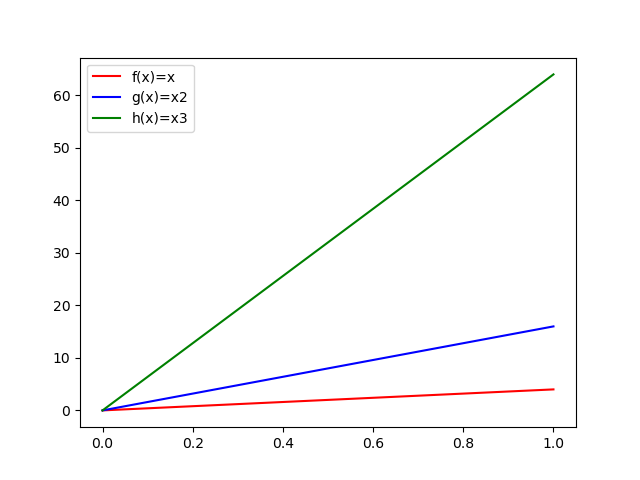
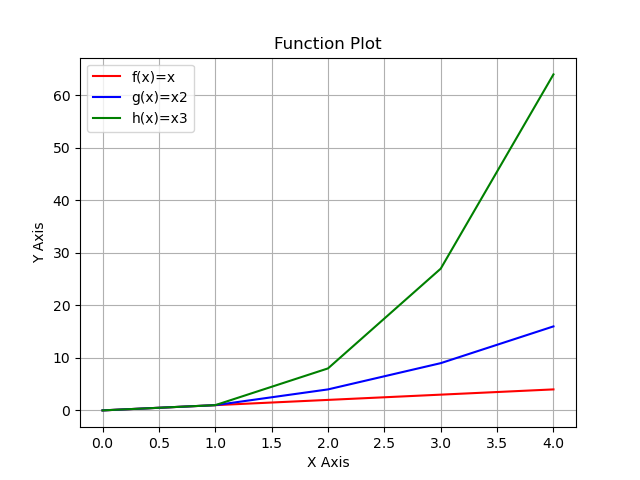
Weekly task 8 code cleanup and readme file updates

diff --git a/Task8-plotTask.py b/Task8-plotTask.py
@@ -5,10 +5,14 @@
 import numpy as np
 import matplotlib.pyplot as plt
 
-# Passed array in similar to how we did in the week 08 lectures
-x = np.array([0,4])
+# All the below represent ways to pass in the range [0,4]
+# https://realpython.com/how-to-use-numpy-arange/
 
-# insert functions as outlined in the task 
+x = np.array([0,1,2,3,4]) 
+# x = np.arange(5, dtype=int)
+# x = np.arange(0,5) # returns 0,1,2,3,4
+
+# Inserted functions as outlined in the task 
 # using **2 for squared 4*4
 # using **3 for cubed 4*4*4
 f =x
@@ -25,19 +29,26 @@ plt.plot(h, 'g') # green line
 # https://www.earthdatascience.org/courses/scientists-guide-to-plotting-data-in-python/plot-with-matplotlib/introduction-to-matplotlib-plots/customize-plot-colors-labels-matplotlib/
 # https://matplotlib.org/stable/tutorials/introductory/pyplot.html
 
-plt.plot(title = "Function Plot",
-       xlabel = "X Axis", 
-       ylabel = "Y Axis")
-
-# passing the legend names in a list
+# putting the legend names in a list
 # https://matplotlib.org/stable/tutorials/intermediate/legend_guide.html
+# location of the legend
+# https://matplotlib.org/stable/tutorials/introductory/pyplot.html
+# creating a grid effect
+# https://matplotlib.org/2.0.2/api/pyplot_api.html
 
-plt.legend(['f(x)=x', 'g(x)=x2', 'h(x)=x3'])
 
+plt.legend(['f(x)=x', 'g(x)=x2', 'h(x)=x3'], loc=0)
+plt.title("Function Plot")
+plt.xlabel("X Axis")
+plt.ylabel("Y Axis")
+plt.grid(True)
+
+# saving the plot as a png file
 plt.savefig("Weekly_Task_Plot.png")
 
+# Displaying the plot
 plt.show()
 
 
 # https://www.oreilly.com/library/view/python-data-science/9781491912126/ch04.html
-# https://stackoverflow.com/questions/22276066/how-to-plot-multiple-functions-on-the-same-figure-in-matplotlib
+

diff --git a/README.md b/README.md
@@ -217,9 +217,9 @@ After the first formula calculation, we check if the iteration change (root minu
 I used 'abs' to return absolute value.  
 
 On the first iteration, the absolute value of iteration change 6.75 (7.75-14.5) is greater than my tolerance level of 0.1. 
-Therefore the result is false and I need to continue the while loop.  I make x equal to the root and loop back to the start of the while function.
+Therefore the result is false and the while loop will continue.  I make x equal to the root and loop back to the start of the while function.
 
-When the absolute value of the iteration change is less than my tolerance level of 0.01, we break the while loop and return the square root. 
+When the absolute value of the iteration change is less than my tolerance level of 0.01, the while loop will break and return the square root. 
 
 Finally I round the square root to 1 decimal place as per the expected result.  
 
@@ -295,37 +295,58 @@ _ _ _
 
 For the Looking ahead topic in week 8, the task was to write a program called plottask.py that displays a plot of the functions f(x)=x, g(x)=x2 and h(x)=x3 in the range [0, 4] on the one set of axes.  
 
+* Input  
+    f(x)=x  
+    g(x)=x2  
+    h(x)=x3
+
+* Output is to display and save the plot    
 
 Code:   
 
     import numpy as np
     import matplotlib.pyplot as plt
-    x = np.array([0,4])
+    x = np.array([0,1,2,3,4]) 
     f =x
     g =x**2
     h =x**3
     plt.plot(f, 'r') # red line
     plt.plot(g, 'b') # blue line
     plt.plot(h, 'g') # green line
-    plt.plot(title = "Function Plot",
-       xlabel = "X Axis", 
-       ylabel = "Y Axis")
-    plt.legend(['f(x)=x', 'g(x)=x2', 'h(x)=x3'])
+    plt.legend(['f(x)=x', 'g(x)=x2', 'h(x)=x3'], loc=0)
+    plt.title("Function Plot")
+    plt.xlabel("X Axis")
+    plt.ylabel("Y Axis")
+    plt.grid(True)
     plt.savefig("Weekly_Task_Plot.png")
     plt.show()
 
 Code Explanation:   
-Imported numpy and matplotlib.  
-Passed array in similar to how we did in the week 08 lectures  
-Inserted functions as outlined in the task requirements, using **2 for squared (4*4) and # using **3 for cubed (4*4*4). 
-Plotting f, g & h functions separately
-formatting the plot 
-passing the legend names in a list
+Imported numpy (for array computing) and matplotlib (for creating the plots showing the results).  
+
+Researched how-to-use-numpy-arange on real python to understand how to pass in a range.   
+Each of the following pass in the range [0,4]   
+    x = np.array([0,1,2,3,4])   
+    x = np.arange(5, dtype=int)   
+    x = np.arange(0,5) # returns 0,1,2,3,4  
+
+Inserted functions as outlined in the task requirements, using **2 for squared (4 x 4) and using **3 for cubed (4 x 4 x 4).  
+Plotted f, g & h functions separately but on the same axis. 
+
+Applied the following formats after researching on mayplotlib.org   
+1. Added Title name   
+2. Added X and Y titles  
+3. Added legend (passing the names in as a list)  
+4. Added Grid effect  
+
+The final setep was to save the plot as a png file (Weekly_Task_Plot.png) and also get the program to display the output.   
 
 References:  
 
-    https://www.earthdatascience.org/courses/scientists-guide-to-plotting-data-in-python/plot-with-matplotlib/introduction-to-matplotlib-plots/customize-plot-colors-labels-matplotlib/
-    https://matplotlib.org/stable/tutorials/introductory/pyplot.html
-    https://matplotlib.org/stable/tutorials/intermediate/legend_guide.html
-    https://www.oreilly.com/library/view/python-data-science/9781491912126/ch04.html
+    https://realpython.com/how-to-use-numpy-arange/
     https://stackoverflow.com/questions/22276066/how-to-plot-multiple-functions-on-the-same-figure-in-matplotlib
+    https://www.earthdatascience.org/courses/scientists-guide-to-plotting-data-in-python/plot-with-matplotlib/introduction-to-matplotlib-plots/customize-plot-colors-labels-matplotlib/
+    https://matplotlib.org/stable/tutorials/intermediate/legend_guide.html
+    https://matplotlib.org/stable/tutorials/introductory/pyplot.html
+    https://matplotlib.org/2.0.2/api/pyplot_api.html
+    https://www.oreilly.com/library/view/python-data-science/9781491912126/ch04.html
